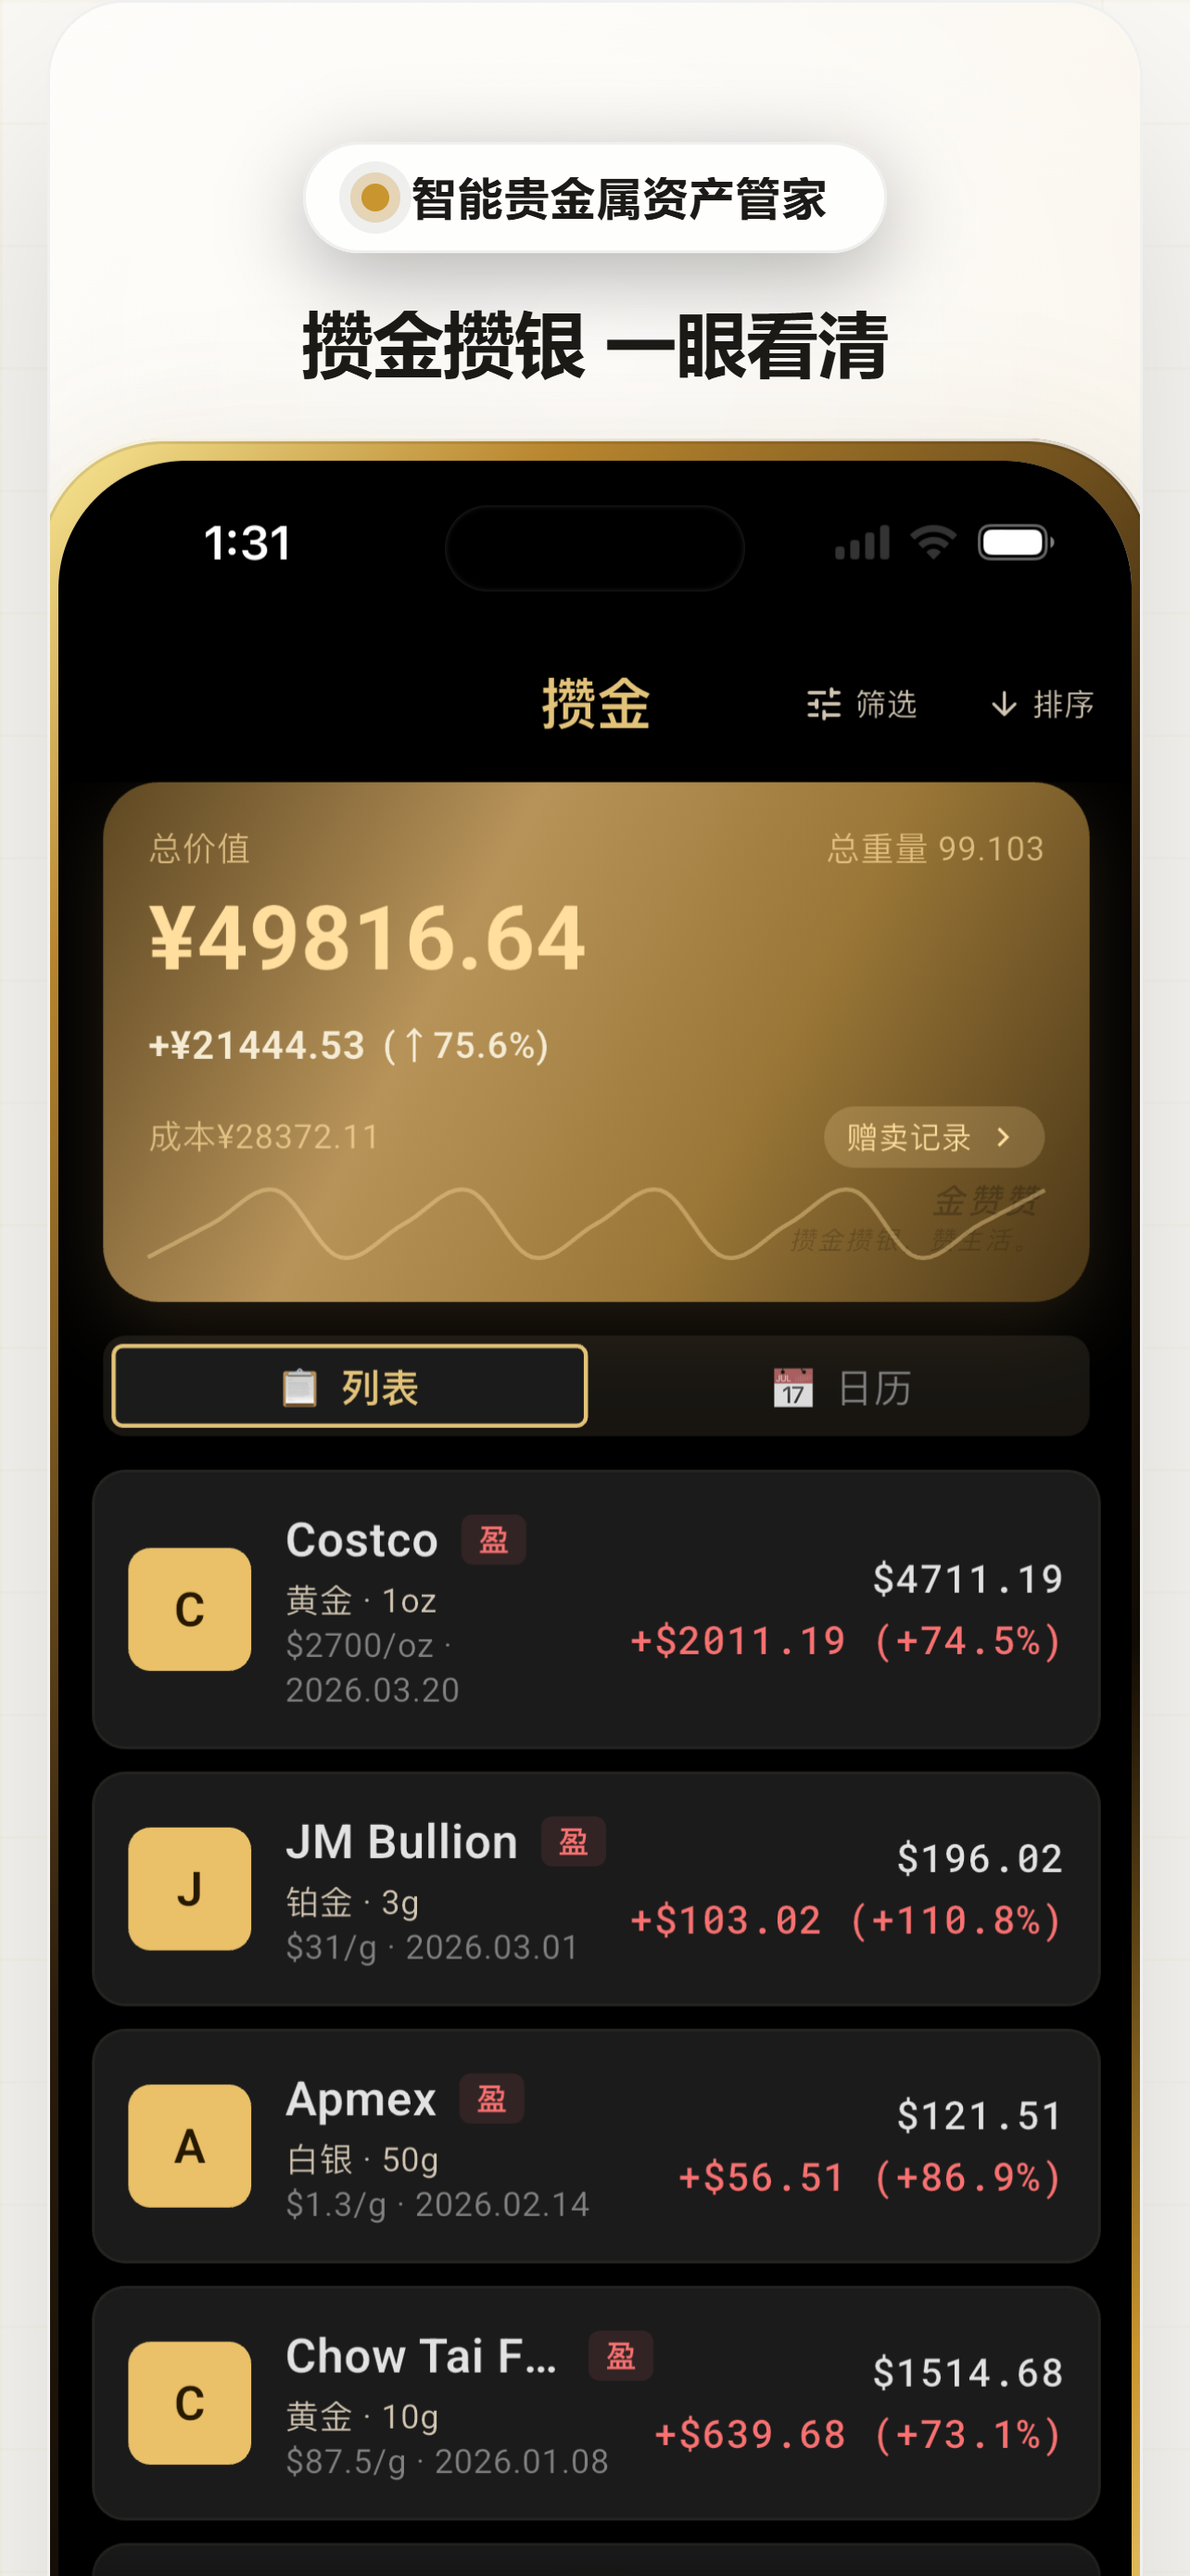
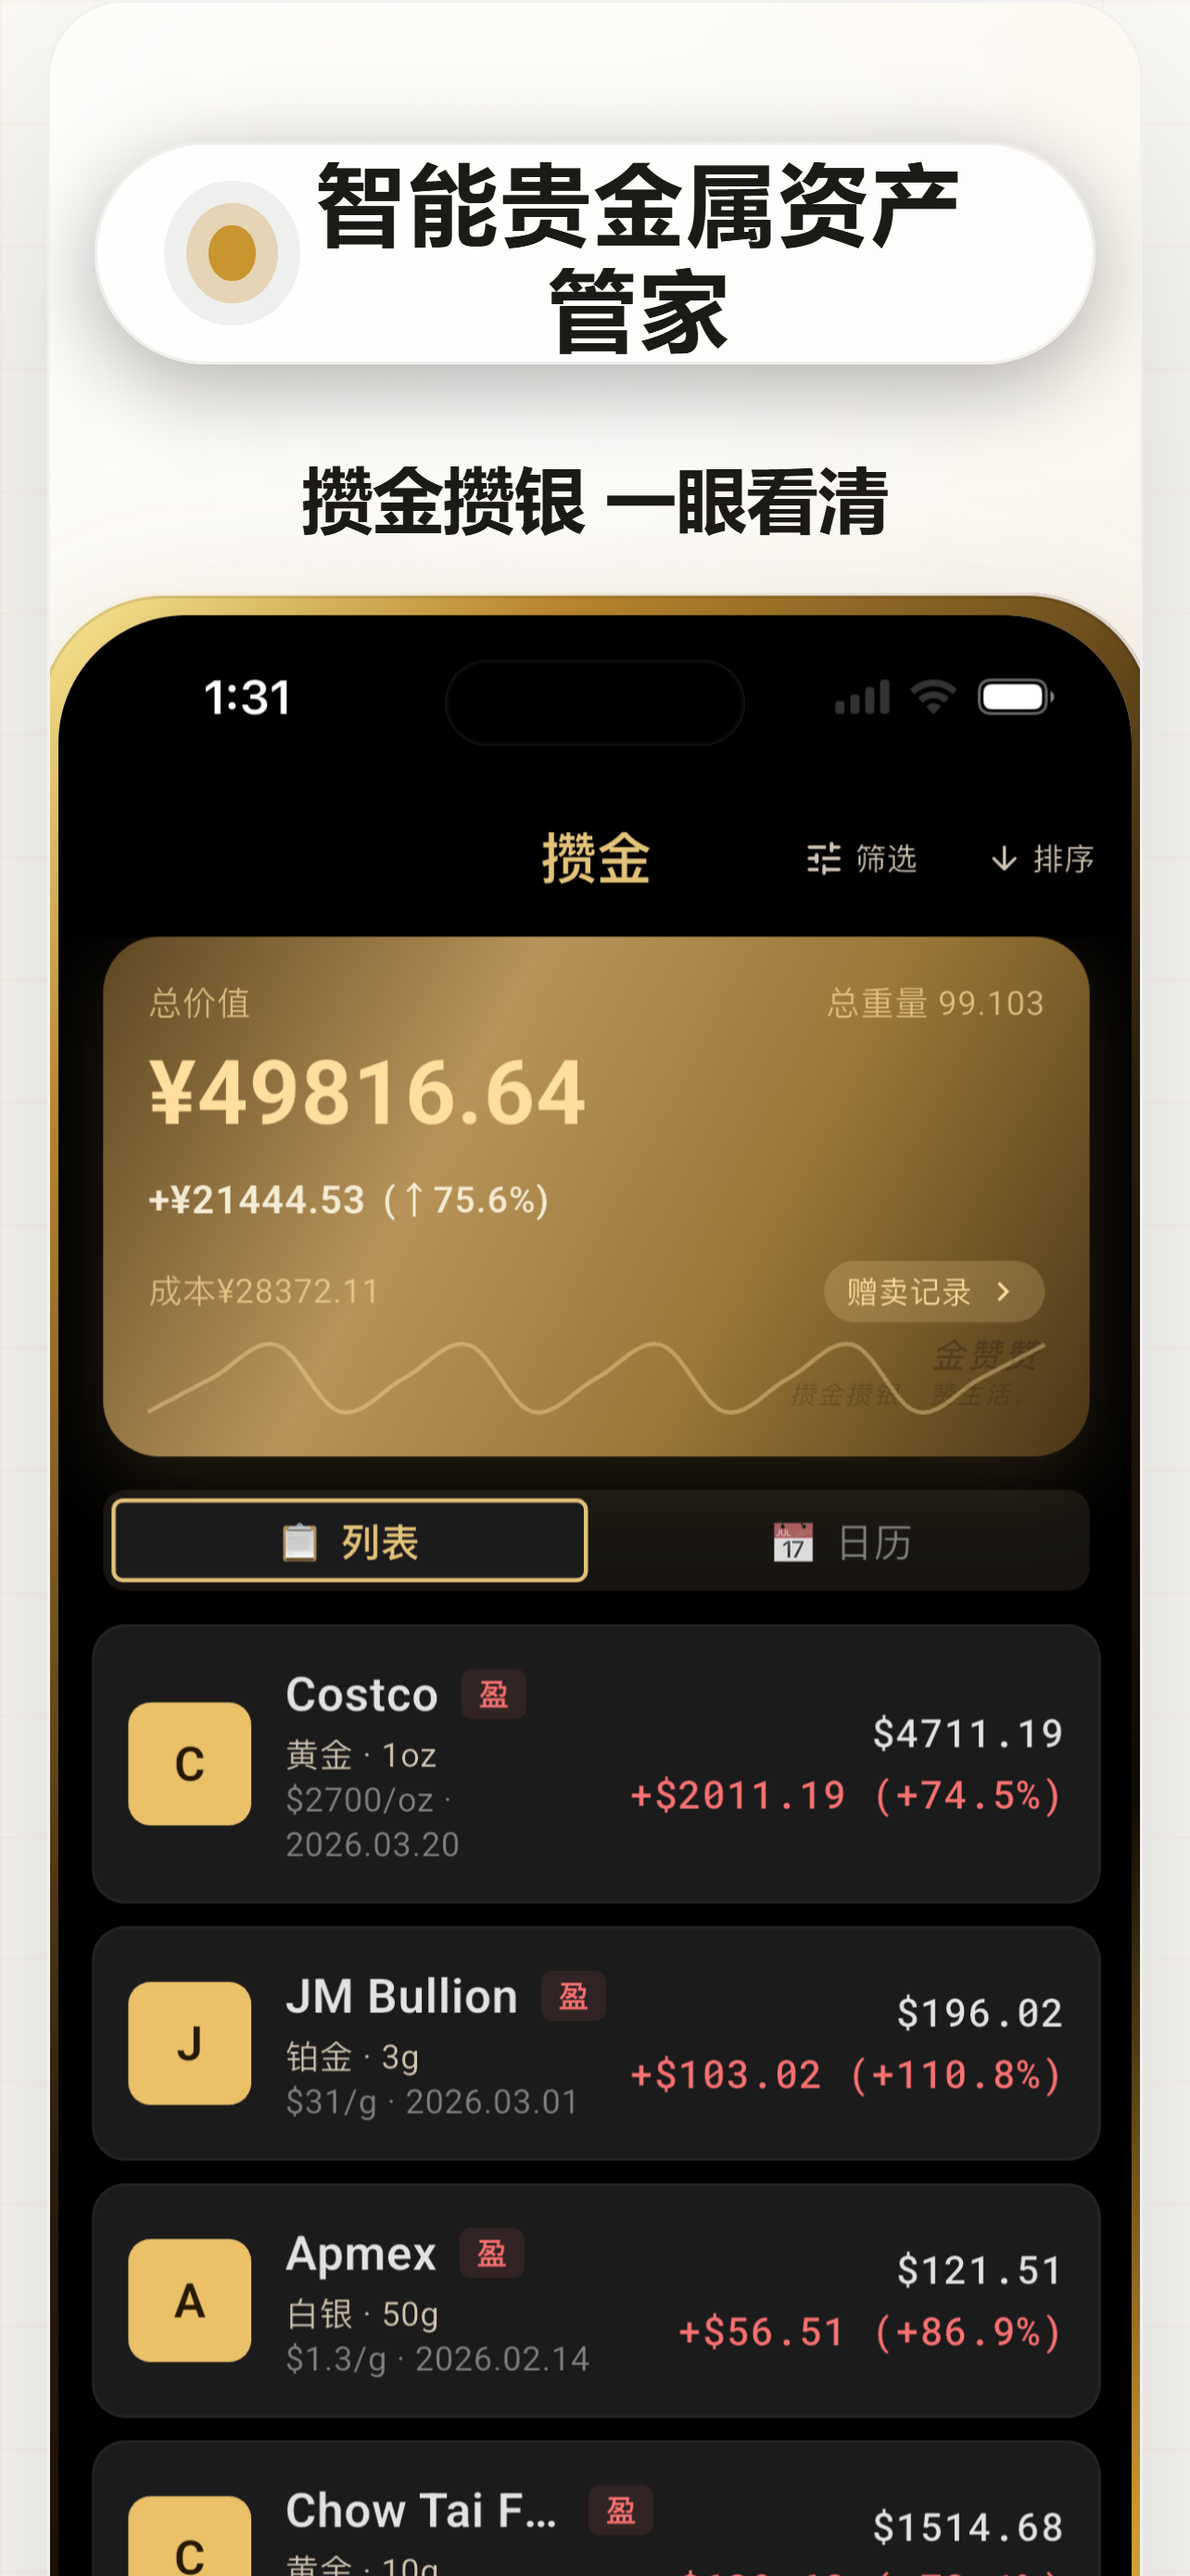
style: double the size of slide kickers

diff --git a/index.html b/index.html
@@ -212,16 +212,16 @@
         .slide-kicker {
             display: inline-flex;
             align-items: center;
-            gap: 8px;
-            min-height: 36px;
-            margin-bottom: 12px;
-            padding: 0 16px;
+            gap: 16px;
+            min-height: 72px;
+            margin-bottom: 24px;
+            padding: 0 32px;
             border: 1px solid var(--glass-border);
             border-radius: 999px;
             background: var(--glass-bg);
             backdrop-filter: blur(20px);
             color: var(--ink);
-            font-size: clamp(14px, 2.5vw, 18px); /* Shrunk */
+            font-size: clamp(28px, 5vw, 36px); /* Doubled */
             font-weight: 800;
             letter-spacing: 0.04em;
             text-transform: uppercase;
@@ -230,13 +230,13 @@
 
         .slide-kicker::before {
             content: "";
-            width: 10px;
-            height: 10px;
+            width: 20px;
+            height: 20px;
             border-radius: 50%;
             background: var(--kicker-dot, var(--gold));
             box-shadow:
-                0 0 0 4px var(--kicker-halo, rgba(201,149,47,0.28)),
-                0 0 0 8px rgba(0,0,0,0.06);
+                0 0 0 8px var(--kicker-halo, rgba(201,149,47,0.28)),
+                0 0 0 16px rgba(0,0,0,0.06);
         }
 
         /* Per-slide dot color anchoring each slide to its gradient identity */
@@ -504,10 +504,10 @@
             }
 
             .slide-kicker {
-                min-height: 40px;
-                padding: 0 20px;
-                margin-bottom: 16px;
-                font-size: 16px;
+                min-height: 80px;
+                padding: 0 40px;
+                margin-bottom: 32px;
+                font-size: 32px;
             }
 
             .slide-copy h2 {
